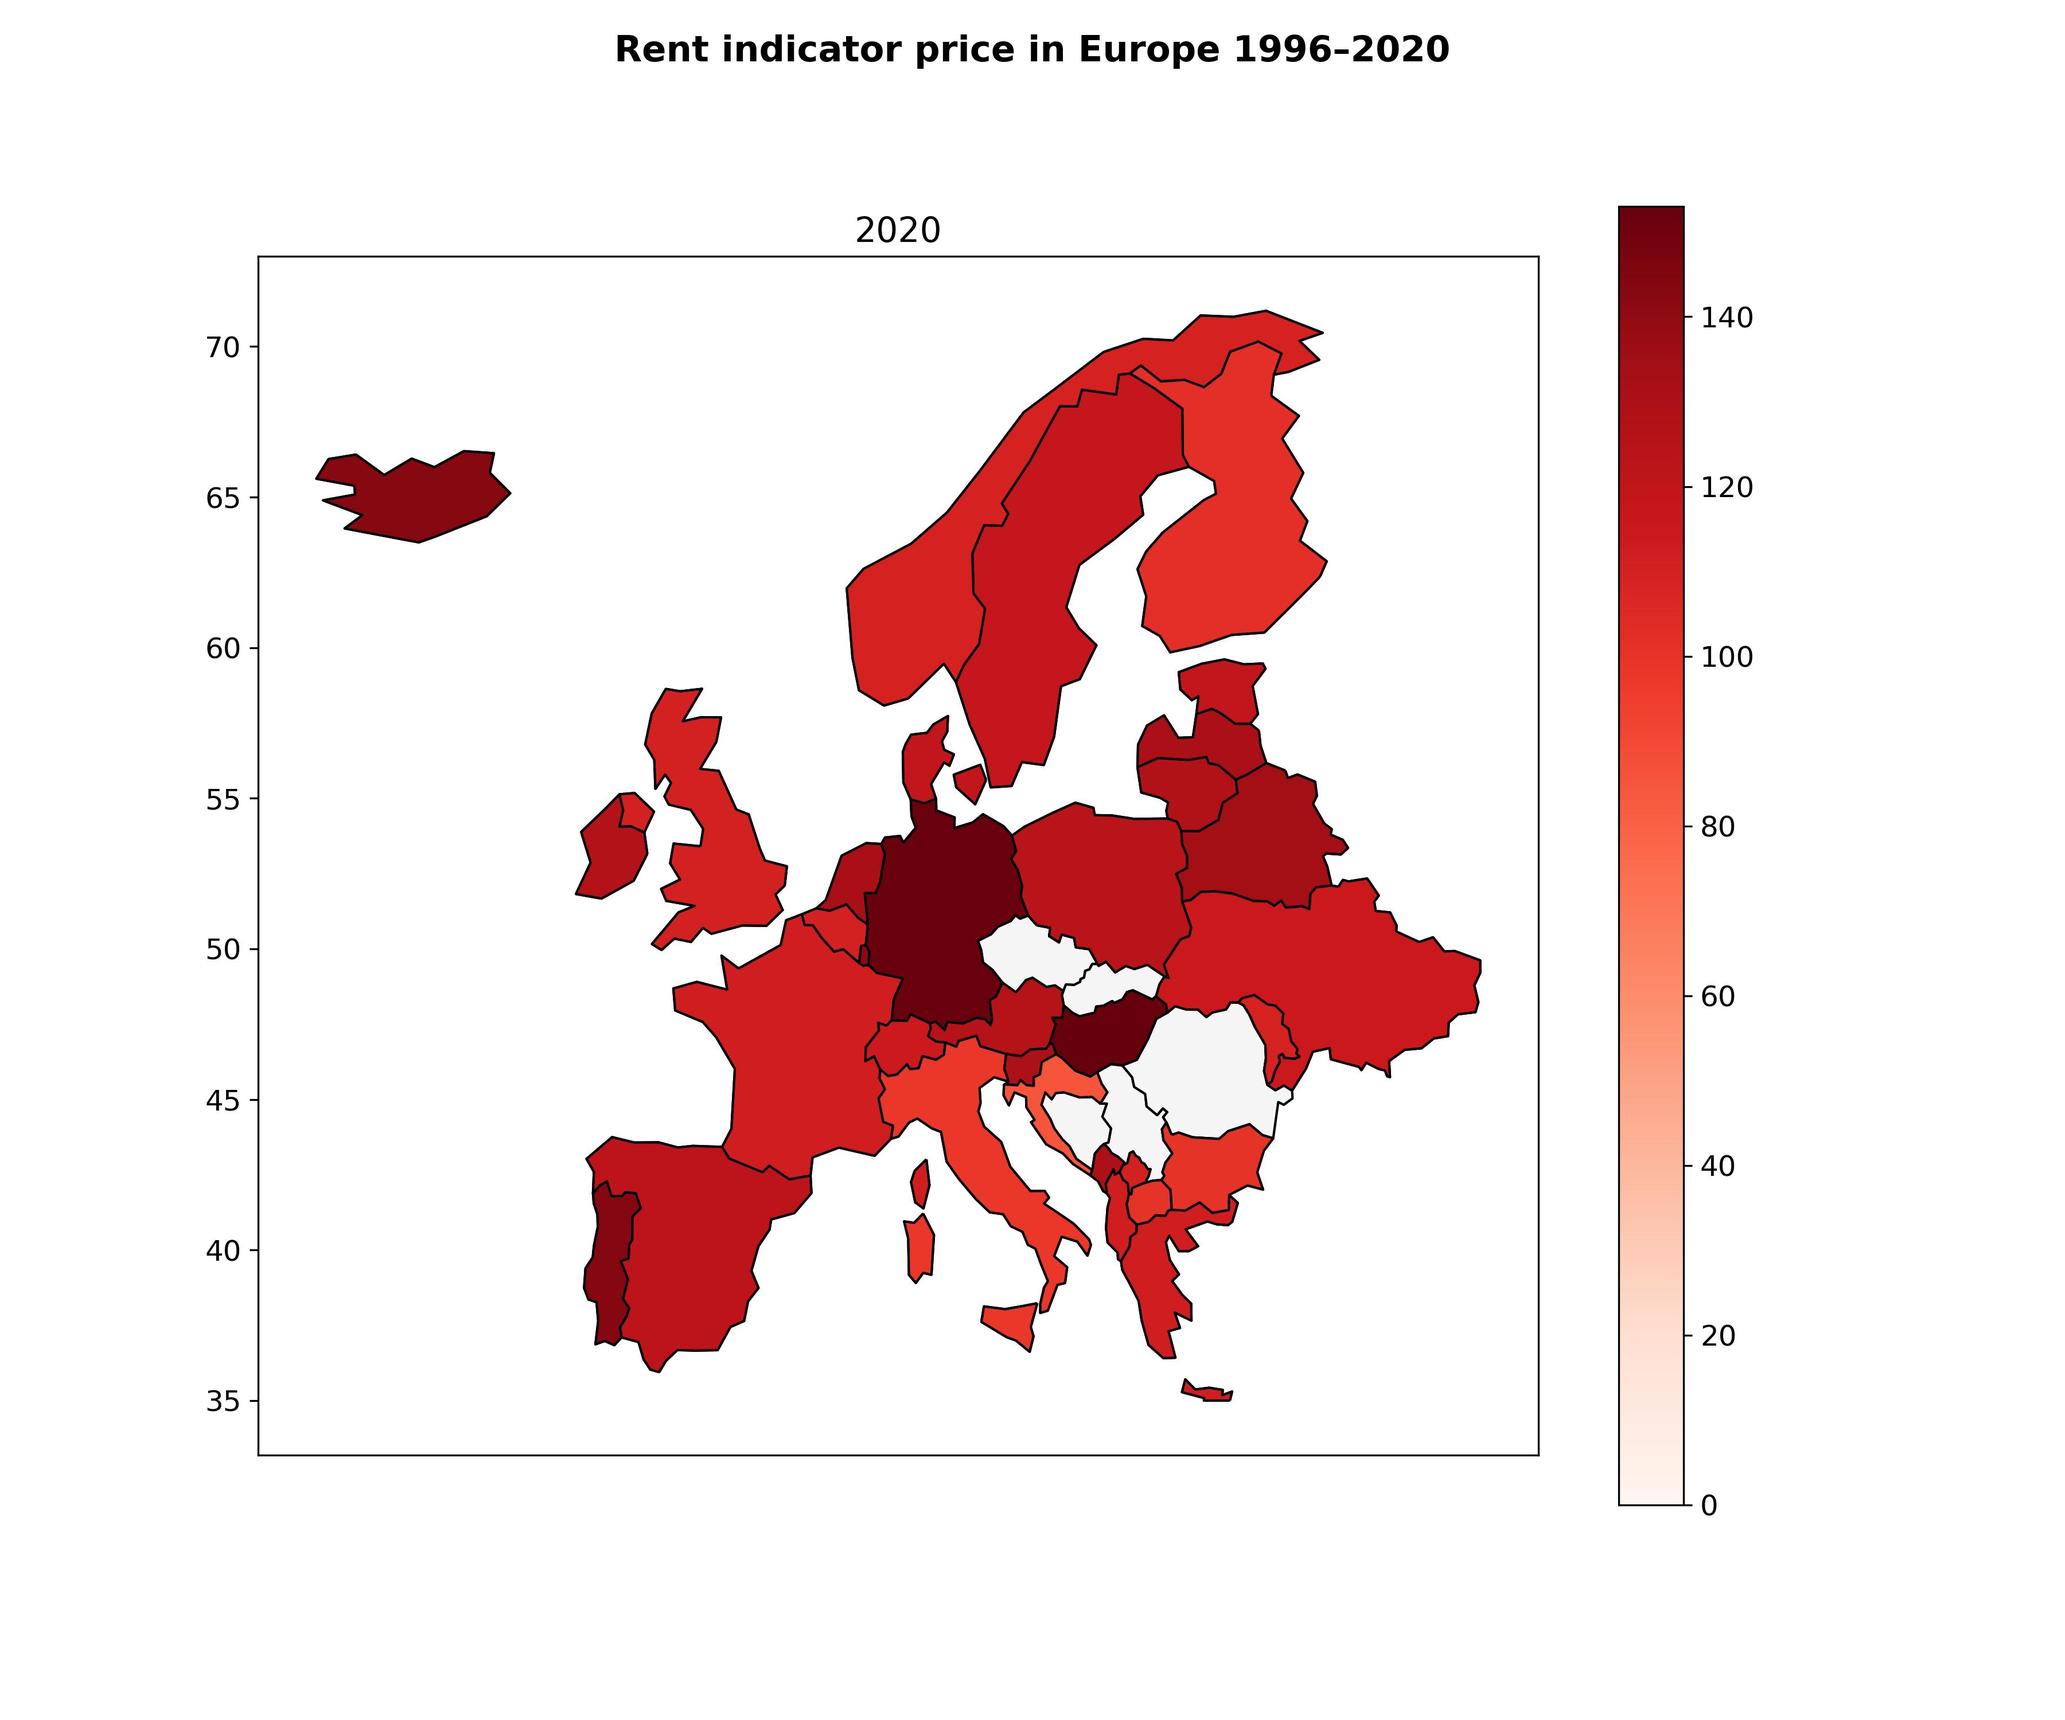
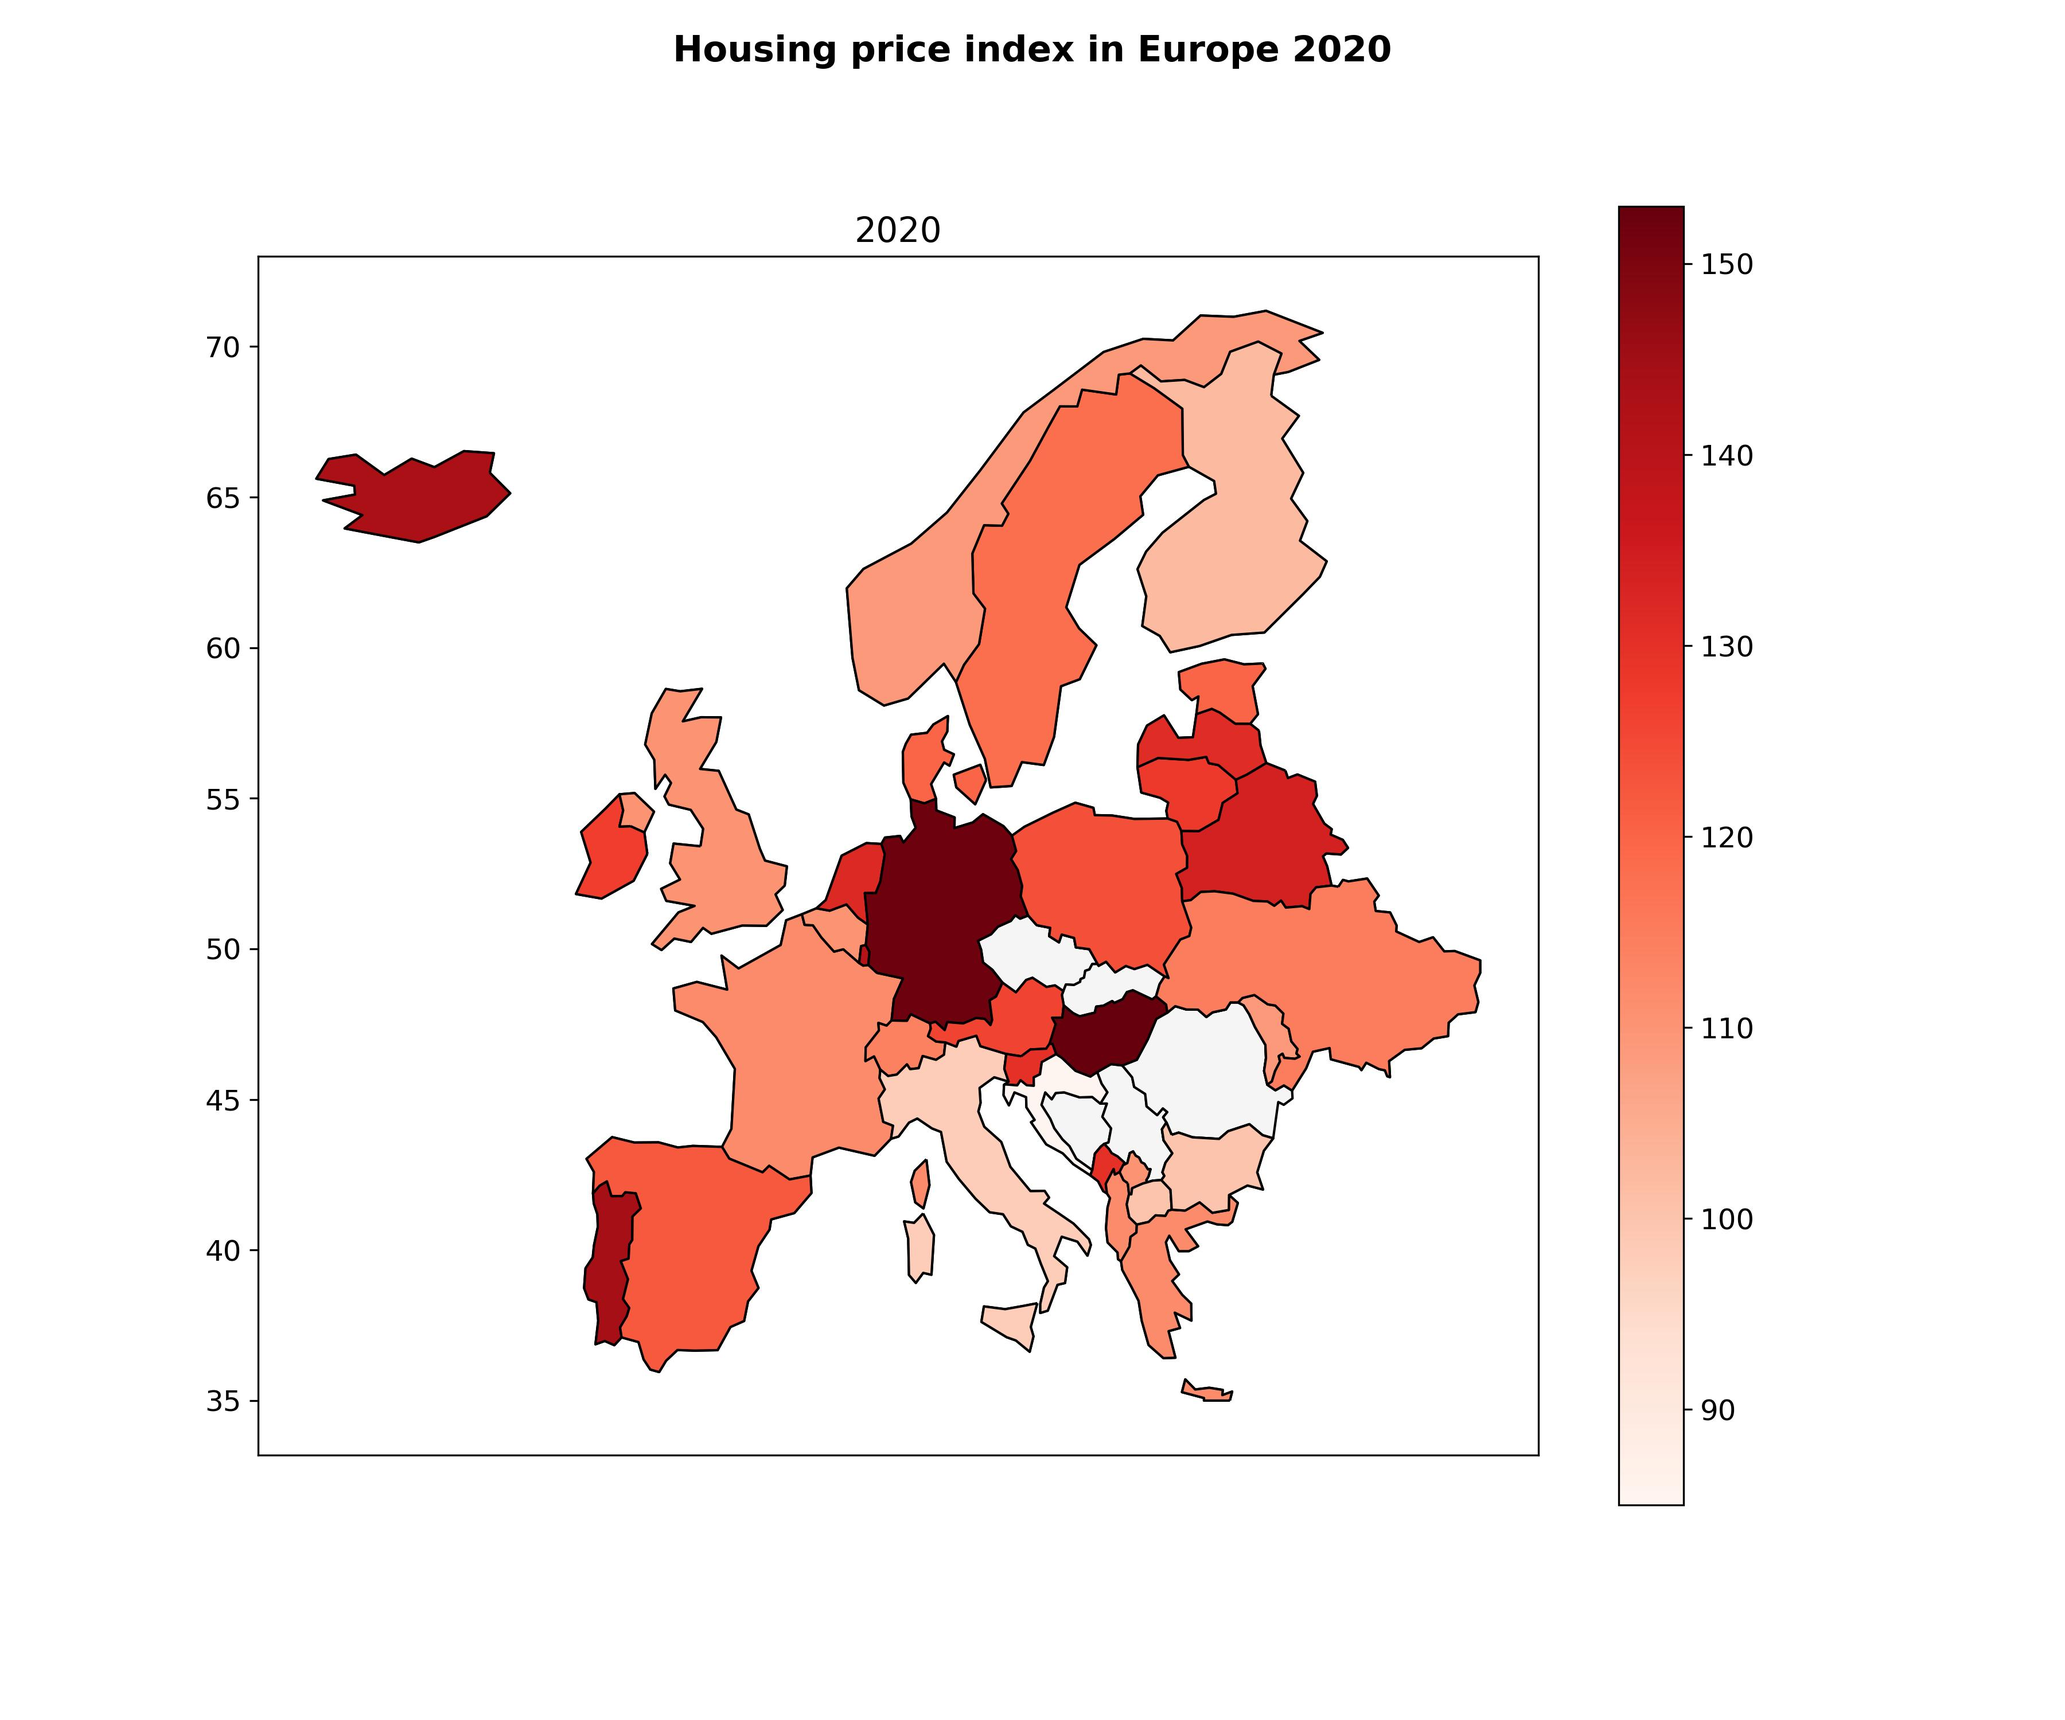
convert files in py and adjust last charts

diff --git a/dataVisualisation.py b/dataVisualisation.py
@@ -1,0 +1,181 @@
+from matplotlib import legend
+import pandas as pd
+import matplotlib.pyplot as plt
+import numpy as np
+import pandas as pd
+import geopandas
+from shapely.geometry import Polygon
+import warnings
+warnings.filterwarnings(action='ignore')
+from dataCleaning import data_cleaning
+
+df, df_rent_price, df_house_price = data_cleaning()
+
+# first plots of the data
+df = df[df['index'].isna() == False]
+df.groupby(['country'])['index'].mean().plot(legend=True, kind='bar', figsize=(10,5), title='Average index by country', xlabel='Country', ylabel='Average index')
+df.groupby(['country'])['price'].mean().plot(legend=True, kind='bar', figsize=(10,5), title='Average price by country', xlabel='Country', ylabel='Average price')
+
+# rename the columns
+df_house_price.rename(columns={"Unnamed: 0": "country"}, inplace=True)
+df_rent_price.rename(columns={"Unnamed: 0": "country"}, inplace=True)
+
+# bar plot of the rent_price index
+ax = plt.gca()
+df_rent_price.plot( x = 'country', y = '2020', ax = ax, figsize=(10,5), legend=True, kind='bar', title='Average rent price by country', xlabel='Country', ylabel='Average rent price')
+
+# compare the rent_price and house_price indexes with a bar plot
+countries = df_rent_price['country']
+rentSeries = df_rent_price['2020']
+priceSeries = df_house_price['2020']
+df_bar = pd.DataFrame({"Rent":rentSeries,"Price":priceSeries, "country":countries})
+ax = df_bar.plot.bar(x = 'country',color=["SkyBlue","IndianRed"], rot=0, title="Index complare\nRent vs. Price", figsize=(10,5))
+ax.set_xlabel("Country")
+ax.set_ylabel("Indexes")
+plt.xticks(rotation=90)
+plt.show()
+
+# bar plot of the house_price index
+ax = plt.gca()
+df_house_price.plot( x = 'country', y = '2020', ax = ax, figsize=(10,5), legend=True, kind='bar', title='Average house price by country', xlabel='Country', ylabel='Average house price')
+
+### GEOPLOTS ###
+
+# Geoplots, first by year and then larger with last year
+plt.rcParams['figure.figsize']=(12,10)
+plt.rcParams['font.size']=12
+
+world = geopandas.read_file(geopandas.datasets.get_path('naturalearth_lowres'))
+europe=world[world.continent=='Europe']
+
+#Remove Russia from map of Europe
+europe=europe[(europe.name!='Russia')]
+
+# Create a custom polygon
+polygon = Polygon([(-25,35), (40,35), (40,75),(-25,75)])
+poly_gdf = geopandas.GeoDataFrame([1], geometry=[polygon], crs=world.crs)
+
+#Clip polygon from the map of Europe
+europe=geopandas.clip(europe, polygon) 
+
+selected_countries=europe[europe.name.isin(list(df_rent_price.country))]
+df_rent_price['name'] = df_rent_price['country']
+selected_countries=selected_countries.merge(df_rent_price, on='name',how='left')
+
+#Range of Variable you see as map color. Here I select the minimum and maximum of all the years selected.
+vmin=selected_countries[['1996','2000','2005','2010','2015','2020']].min().min()
+vmax=selected_countries[['1996','2000','2005','2010','2015','2020']].max().max()
+
+#Create subplots with 2 rows and 3 columns
+fig,axs=plt.subplots(2,3)
+fig.suptitle('Rent indicator price in Europe 1996–2020', fontweight='bold',fontsize=15)
+#Adjust space betweeen rows
+plt.subplots_adjust(bottom=0.2, top=0.9, hspace=0.25)
+axs[0,0]=europe.plot(color='whitesmoke',edgecolor='black',ax=axs[0,0])
+selected_countries.plot('1996',cmap='Reds',edgecolor='black',ax=axs[0,0], vmin=vmin, vmax=vmax)
+axs[0,0].set_title('1996')
+axs[0,0].xaxis.set_visible(False)
+axs[0,1]=europe.plot(color='whitesmoke',edgecolor='black',ax=axs[0,1])
+selected_countries.plot('2000',cmap='Reds',edgecolor='black',ax=axs[0,1], vmin=vmin, vmax=vmax)
+axs[0,1].set_title('2000')
+axs[0,1].xaxis.set_visible(False)
+axs[0,1].yaxis.set_visible(False)
+axs[0,2]=europe.plot(color='whitesmoke',edgecolor='black',ax=axs[0,2])
+selected_countries.plot('2005',cmap='Reds',edgecolor='black',ax=axs[0,2], vmin=vmin, vmax=vmax)
+axs[0,2].set_title('2005')
+axs[0,2].xaxis.set_visible(False)
+axs[0,2].yaxis.set_visible(False)
+axs[1,0]=europe.plot(color='whitesmoke',edgecolor='black',ax=axs[1,0])
+selected_countries.plot('2010',cmap='Reds',edgecolor='black',ax=axs[1,0], vmin=vmin, vmax=vmax)
+axs[1,0].set_title('2010')
+axs[1,1]=europe.plot(color='whitesmoke',edgecolor='black',ax=axs[1,1])
+selected_countries.plot('2015',cmap='Reds',edgecolor='black',ax=axs[1,1], vmin=vmin, vmax=vmax)
+axs[1,1].set_title('2015')
+axs[1,1].yaxis.set_visible(False)
+axs[1,2]=europe.plot(color='whitesmoke',edgecolor='black',ax=axs[1,2])
+selected_countries.plot('2020',cmap='Reds',edgecolor='black',ax=axs[1,2], vmin=vmin, vmax=vmax)
+axs[1,2].set_title('2020')
+axs[1,2].yaxis.set_visible(False)
+
+# add colorbar
+cax = fig.add_axes([0.92, 0.2, 0.03, 0.7]) #[left, bottom, width, height]
+sm = plt.cm.ScalarMappable(cmap='Reds', norm=plt.Normalize(vmin=vmin, vmax=vmax))
+# fake up the array of the scalar mappable.
+sm._A = []
+lgd=fig.colorbar(sm, cax=cax).set_label('gCO$_2$e/kWh', rotation=0,y=1.05, labelpad=-35)
+plt.savefig('Rent_price.jpeg',
+ dpi=300)
+plt.show()
+
+# single larger plot of European rent price
+fig,ax=plt.subplots()
+fig.suptitle('Rent price index in Europe 2020', fontweight='bold',fontsize=15)
+ax=europe.plot(color='whitesmoke',edgecolor='black',ax=ax)
+selected_countries.plot('2020',cmap='Reds',edgecolor='black',ax=ax, vmin=vmin, vmax=vmax, legend=True)
+ax.set_title('2020')
+ax.xaxis.set_visible(False)
+
+plt.savefig('Rent_price.jpeg', dpi=300)
+plt.show()
+
+# let's do the same with the house_price index
+selected_countries=europe[europe.name.isin(list(df_house_price.country))]
+df_house_price['name'] = df_house_price['country']
+selected_countries=selected_countries.merge(df_house_price, on='name',how='left')
+
+#Range of Variable you see as map color. Here I select the minimum and maximum of all the years selected.
+vmin=selected_countries[['2020']].min().min()
+vmax=selected_countries[['2020']].max().max()
+
+fig,ax=plt.subplots()
+fig.suptitle('Housing price index in Europe 2020', fontweight='bold',fontsize=15)
+ax=europe.plot(color='whitesmoke',edgecolor='black',ax=ax)
+selected_countries.plot('2020',cmap='Reds',edgecolor='black',ax=ax, vmin=vmin, vmax=vmax, legend=True)
+ax.set_title('2020')
+ax.xaxis.set_visible(False)
+
+plt.savefig('Rent_price.jpeg', dpi=300)
+plt.show()
+
+#############################################################################################################################
+
+COUNTRIES = df["country"].values
+COUNTRIES_ = np.unique(COUNTRIES)
+
+df['name'] = df['country']
+df = df.groupby(['country']).mean()
+print(df)
+
+PRICE_LENGTH = df["price"].values
+INDEX_LENGTH = df["index"].values
+SURFACE_LENGTH = df["surface"].values
+
+#COUNTRIES = df["country"].values
+#COUNTRIES_ = np.unique(COUNTRIES)
+
+COLORS = ["#1B9E77", "#D95F02", "#7570B3", "#E7298A", "#66A61E", "#E6AB02", "#1B9E77", "#D95F02", "#7570B3", "#E7298A", "#66A61E", "#E6AB02", "#1B9E77", "#D95F02", "#7570B3", "#E7298A", "#66A61E", "#E6AB02", "#1B9E77", "#D95F02", "#7570B3", "#E7298A", "#66A61E", "#E6AB02", "#1B9E77", "#D95F02", "#7570B3", "#E7298A", "#66A61E", "#E6AB02", "#1B9E77", "#D95F02", "#7570B3", "#E7298A", "#66A61E", "#E6AB02", "#1B9E77", "#D95F02", "#7570B3", "#E7298A", "#66A61E", "#E6AB02", "#1B9E77", "#D95F02", "#7570B3", "#E7298A", "#66A61E", "#E6AB02", "#1B9E77", "#D95F02", "#7570B3", "#E7298A", "#66A61E", "#E6AB02", "#1B9E77", "#D95F02", "#7570B3", "#E7298A", "#66A61E", "#E6AB02", "#1B9E77", "#D95F02", "#7570B3", "#E7298A", "#66A61E", "#E6AB02", "#1B9E77", "#D95F02", "#7570B3", "#E7298A", "#66A61E", "#E6AB02", "#1B9E77", "#D95F02", "#7570B3", "#E7298A", "#66A61E", "#E6AB02", "#1B9E77", "#D95F02", "#7570B3", "#E7298A", "#66A61E", "#E6AB02"]
+
+fig, ax = plt.subplots(figsize=(8,8))
+
+""" for i in range(len(COUNTRIES_)):
+    ax.scatter(
+        x = SURFACE_LENGTH[i],
+        y = PRICE_LENGTH[i], 
+        s = INDEX_LENGTH[i]*100, 
+        c = COLORS[i], 
+        label = COUNTRIES_[i], 
+        alpha = 0.6, 
+        edgecolors="white", 
+        linewidth=2); """
+
+fig, ax = plt.subplots(figsize=(8,8))
+for country, color in zip(COUNTRIES_, COLORS):
+    idxs = np.where(COUNTRIES_ == country)
+    # No legend will be generated if we don't pass label=species
+    ax.scatter(
+        PRICE_LENGTH[idxs], INDEX_LENGTH[idxs], label=country,
+        s=50, color=color, alpha=0.7,
+    )
+plt.xlabel("Price (€)") 
+plt.ylabel("Index")
+ax.legend();

diff --git a/dataCleaning.py b/dataCleaning.py
@@ -1,0 +1,114 @@
+from dataPreparation import data_preparation
+
+
+def data_cleaning():
+
+    df_rent, df_house_price, df_rent_price = data_preparation()
+
+    # there are NaN, we replace them with 0
+    df = df_rent.fillna(0)
+    df_house_price = df_house_price.fillna(0)
+    df_rent_price = df_rent_price.fillna(0)
+
+    # create a new column with the country name by taking the last word of the column 'title'
+    splitted = df['title'].str.split()
+    df['country'] = splitted.str[-1]
+    df['country'].replace({'Republic':'Czech Republic'}) # replace the 'Republic' with 'Czech Republic'
+
+    # drop useless columns
+    df.drop(columns=['title'], inplace=True)
+    df.drop(columns=['text-data'], inplace=True)
+
+    # rename the columns and replace 'Not specified' prices with 0
+    df.rename(columns={"desktop-hidden 2": "price", "desktop-hidden 4": "surface"}, inplace=True)
+
+    # normal replace not working so, replace the ',' with '' in the long way
+    df['price'] = df['price'].astype(str)
+    df['price'].replace({'0,':'0'}, regex=True, inplace=True)
+    df['price'].replace({'1,':'1'}, regex=True, inplace=True)
+    df['price'].replace({'2,':'2'}, regex=True, inplace=True)
+    df['price'].replace({'3,':'3'}, regex=True, inplace=True)
+    df['price'].replace({'4,':'4'}, regex=True, inplace=True)
+    df['price'].replace({'5,':'5'}, regex=True, inplace=True)
+    df['price'].replace({'6,':'6'}, regex=True, inplace=True)
+    df['price'].replace({'7,':'7'}, regex=True, inplace=True)
+    df['price'].replace({'8,':'8'}, regex=True, inplace=True)
+    df['price'].replace({'9,':'9'}, regex=True, inplace=True)
+
+    df['surface'].replace({'0,':'0'}, regex=True, inplace=True)
+    df['surface'].replace({'1,':'1'}, regex=True, inplace=True)
+    df['surface'].replace({'2,':'2'}, regex=True, inplace=True)
+    df['surface'].replace({'3,':'3'}, regex=True, inplace=True)
+    df['surface'].replace({'4,':'4'}, regex=True, inplace=True)
+    df['surface'].replace({'5,':'5'}, regex=True, inplace=True)
+    df['surface'].replace({'6,':'6'}, regex=True, inplace=True)
+    df['surface'].replace({'7,':'7'}, regex=True, inplace=True)
+    df['surface'].replace({'8,':'8'}, regex=True, inplace=True)
+    df['surface'].replace({'9,':'9'}, regex=True, inplace=True)
+
+    # remove not valid data
+    df = df[df['price'] != "Not specified"]
+    df = df[df['surface'] != 0]
+    df = df[df['price'] != 0]
+
+
+    #convert all the prices to € and remove the 'EUR'
+
+    # CHF, DKK, PLN, SEK, CZK, BGN, HUF, RON, Iceland
+    # create multiplier for the prices
+    multiplier = {'EUR': 1, 'CHF': 1, 'DKK': 0.13, 'PLN': 0.21, 'SEK': 0.09, 'CZK': 0.04, 'BGN': 0.51, 'HUF': 0.0025, 'RON': 0.2, 'ISK': 0.0072, 'NOK': 0.096}
+
+    prices = []
+    for price in df['price']:
+        if price.find('EUR') != -1:
+            price = price.replace('EUR', '')
+            price = float(price) * multiplier['EUR']
+        elif price.find('CHF') != -1:
+            price = price.replace('CHF', '')
+            price = float(price) * multiplier['CHF']
+        elif price.find('DKK') != -1:
+            price = price.replace('DKK', '')
+            price = float(price) * multiplier['DKK']
+        elif price.find('PLN') != -1:
+            price = price.replace('PLN', '')
+            price = float(price) * multiplier['PLN']
+        elif price.find('SEK') != -1:
+            price = price.replace('SEK', '')
+            price = float(price) * multiplier['SEK']
+        elif price.find('CZK') != -1:
+            price = price.replace('CZK', '')
+            price = float(price) * multiplier['CZK']
+        elif price.find('BGN') != -1:
+            price = price.replace('BGN', '')
+            price = float(price) * multiplier['BGN']
+        elif price.find('HUF') != -1:
+            price = price.replace('HUF', '')
+            price = float(price) * multiplier['HUF']
+        elif price.find('RON') != -1:
+            price = price.replace('RON', '')
+            price = float(price) * multiplier['RON']
+        elif price.find('ISK') != -1:
+            price = price.replace('ISK', '')
+            price = float(price) * multiplier['ISK']
+        elif price.find('NOK') != -1:
+            price = price.replace('NOK', '')
+            price = float(price) * multiplier['NOK']
+        else:
+            price = float(price)
+        prices.append(price)
+    df['price'] = prices
+
+    # clean the column 'surface'
+    df['surface'].replace({' m2':''}, regex=True, inplace=True)
+    df['surface'] = df['surface'].astype(float)
+
+    # calculate the index for every apartment
+    df['index'] = df['price']/df['surface']
+
+    # remove ousiders
+    df = df[df['index'] < 1000]
+
+    # write the new dataframe to a csv file
+    df.to_csv('result.csv', sep='\t')
+
+    return df, df_rent_price, df_house_price
